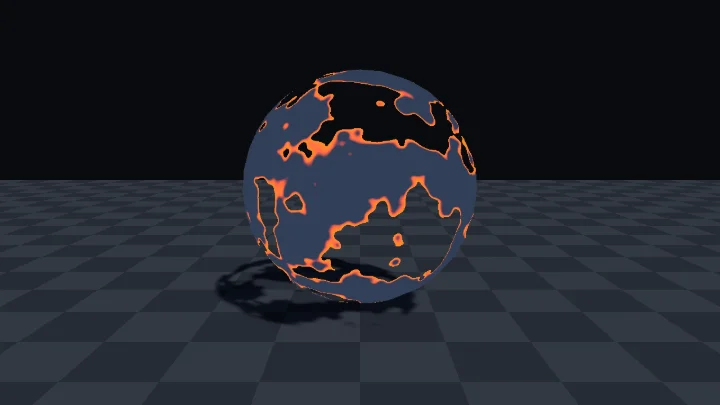
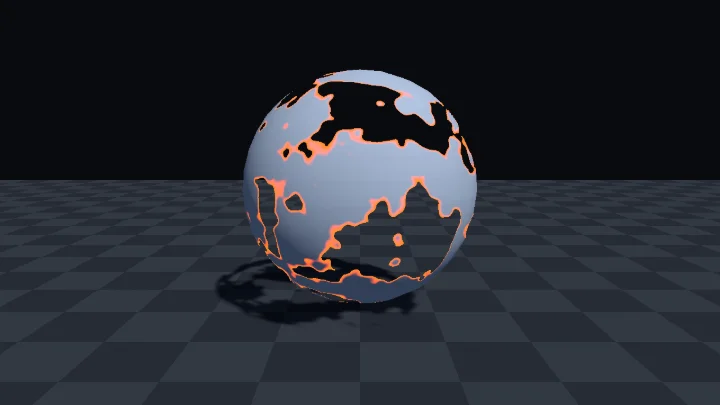
조명 회귀 두 건 수정: 웹 광원 방향, Unity 직사광
- 웹: 좌표를 Unity 기준으로 바꿀 때 lighting 계산만 three.js 광원
  방향을 써서 빛이 앞뒤로 뒤집혀 보였다 (바람 표본 리뷰가 찾음).
  뒤집은 법선과 뒤집은 광원으로 내적한다.
- Unity: 메시 래퍼에 넣었던 light.distanceAttenuation 곱을 뺀다.
  갤러리 촬영 씬에서 0 으로 들어와 디졸브, 프레넬, 툰, 바람의 썸네일에서
  직사광이 사라졌다 (디졸브 밝기 지표 0.176 -> 0.146 -> 0.171).
  네 표본을 다시 촬영했다.

Changed region(s): [[0.3361, 0.1481, 0.6722, 0.6519], [0.55, 0.563, 0.5806, 0.5926]]

diff --git a/web/src/stage/glsl.ts b/web/src/stage/glsl.ts
@@ -59,7 +59,7 @@ void main() {
   i.viewWS = normalize(SG_FLIP(cameraPosition - vPositionWS));
   i.lightDirWS = SG_FLIP(uLightDir);
   i.lightColor = uLightColor;
-  i.lighting = uLightColor * saturate(dot(i.normalWS, uLightDir)) + uAmbient;
+  i.lighting = uLightColor * saturate(dot(i.normalWS, i.lightDirWS)) + uAmbient;
   i.time = uTime;
   vec4 c = sgEffect(i);
   ${writeColor(cutout)}
